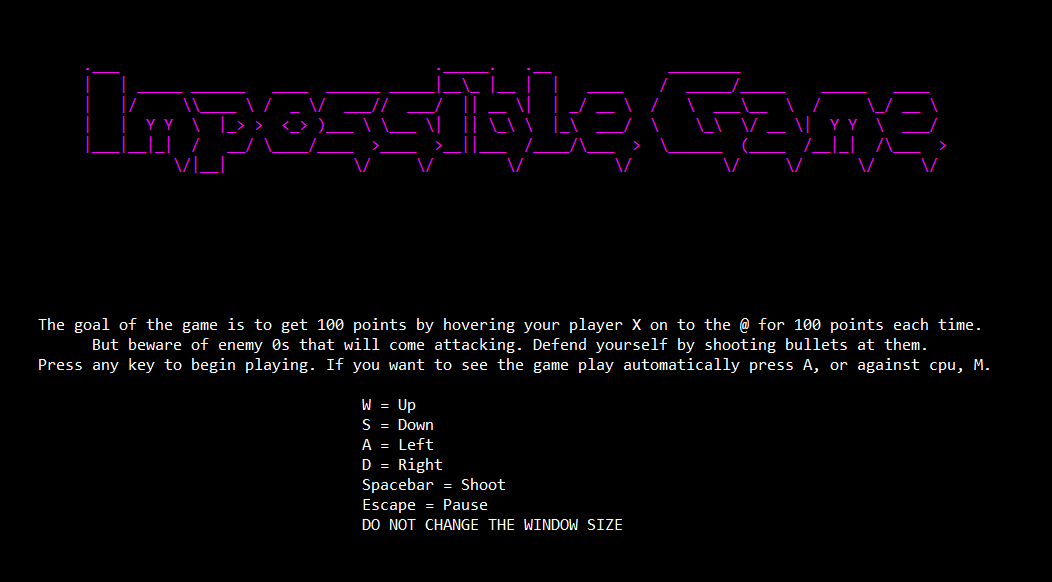
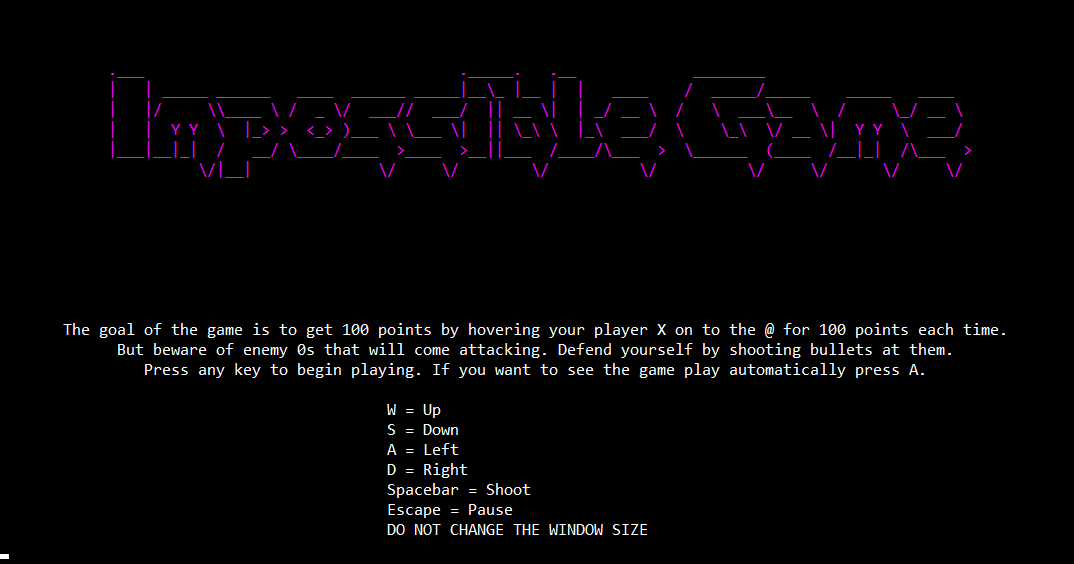
fixed timeline and imp game pic

Changed region(s): [[0.0304, 0.5426, 0.943, 0.9645], [0.0913, 0.1206, 0.9125, 0.3316]]

diff --git a/generic.html b/generic.html
@@ -43,17 +43,15 @@
 							<section class="post">
 								<header class="major">
 									<h1>My Story</h1>
-									<p>My name is Yorick-Ntwari Niyonkuru<br />
-									<br />
-									and I have been programming since August 2019 <b>(<span id="timesince">{insert time since august 2019}</span> years).</b></p>
-							<b><u>Known Technologies: C#, HTML, CSS, Javascript, APIs, MySQL, Python</u></b>
+									<p>Programming Experience: <br> <b>(<span id="timesince">{insert time since august 2019}</span> years).</b></p>
+							<b><u>Known Technologies: C#, C++, Python, HTML, CSS, Javascript, APIs, MySQL</u></b>
 
 								</header>
 								<div class="image main"><img src="images/aboutmeimg.jpg" alt="" /></div>
 
 								<h2>Info</h2>
-								<p>Born and raised in Montreal and perfectly bilingual (English and French), my interest in technology goes back as far as I can remember. It mainly started off with trying to understand how some of my favorite video games worked, mainly Pokemon and Minecraft. Gaming has always been a hobby of mine, however, I found I was only ever attracted to strategy or creative games. After my first computer science class, I was instantly hooked by how much fun designing, building and debugging software was. I wasted no time trying my best to stay ahead of my class with personal projects I always had on the side. Not all of them worked exactly how I wanted them to, but no matter what, I knew progress was progress. What made me truly love programming however was collaborating with my friends and trying to build things or solve problems together. Once we had become familiar working with each other and became better at verbalizing our ideas and intentions, this made workflow a lot easier.</p>
-								<h2>Experience</h2>
+								<p>My name is Yorick-Ntwari Niyonkuru, born and raised in Montreal and perfectly bilingual (English and French). My passion is learning new programming technologies and building software products. My goal is to turn my passion into a career and bring about as much impact as I can with my skills.  </p>
+								<h2>Internship Experience</h2>
 								<p>I was lucky enough to meet Francois Michaud, CEO of <a href="http://www.oriso.com/">Oriso Solutions</a> by pure chance. He seemed to be impressed by my enthousiasm towards my ongoing Computer Science degree and offered me a summer intership. I wasn't doing much at first, installing Windows and Linux on multiple desktops and firewalls that he was planning on selling. Later, I was in chargre of figuring out what the problems were with the devices that wouldn't start. I mainly used my intuition (and a bit of help from Google at times) to fix what I could. For example, one of the firewalls wasn't turning on but had a certain beeping sound. I knew that beep meant there was either something wrong with the RAM or the motherboard. After opening up the case, it was only then I noticed there was no ram installed at all, and Francois was impressed I was able to notice. </p>
 								<p>Three things I learned from working at Oriso Solutions: overcoming shyness of asking for help, understanding how software relates to business needs, and practicing debugging skills</p>
 								<h2>Other</h2>

diff --git a/index.html b/index.html
@@ -99,7 +99,7 @@
 										<h2><a href="assets/projects/ImpossibleGame.exe">Impossible Game with AI</a></h2>
 									</header>
 									<a href="assets/projects/ImpossibleGame.exe" class="image fit"><img src="images/impossible_game_img.png" alt="impossible_game_img" /></a>
-									<p>A very addictive game that plays with human psychology, the goal of the game being very simple, however be wary of its name. Aside from it being very simple yet hard to beat, it has a feature embedded that will let the AI in the game play against itself. </p>
+									<p>A very simple addictive game, however be wary of its name. Aside from it being very simple yet hard to beat, it has a feature embedded that will let the AI in the game play against itself. </p>
 									<ul class="actions special">
 										<li><a href="assets/projects/ImpossibleGame.exe" class="button">Download</a><a href="assets/projects/ImpossibleGame.zip" class="button">View Code</a></li>
 									</ul>

diff --git a/elements.html b/elements.html
@@ -74,7 +74,12 @@
 							  </li>
 							  <li>
 								<div>
-								  <time>December, 2020</time> Bubble Guessing Game using Python
+								  <time>January, 2021</time> A* Path Finding Visualizer using Python
+								</div>
+							  </li>
+							  <li>
+								<div>
+								  <time>January, 2021</time>Sorting Algorithm Visualizer using C++
 								</div>
 							  </li>
 							  
